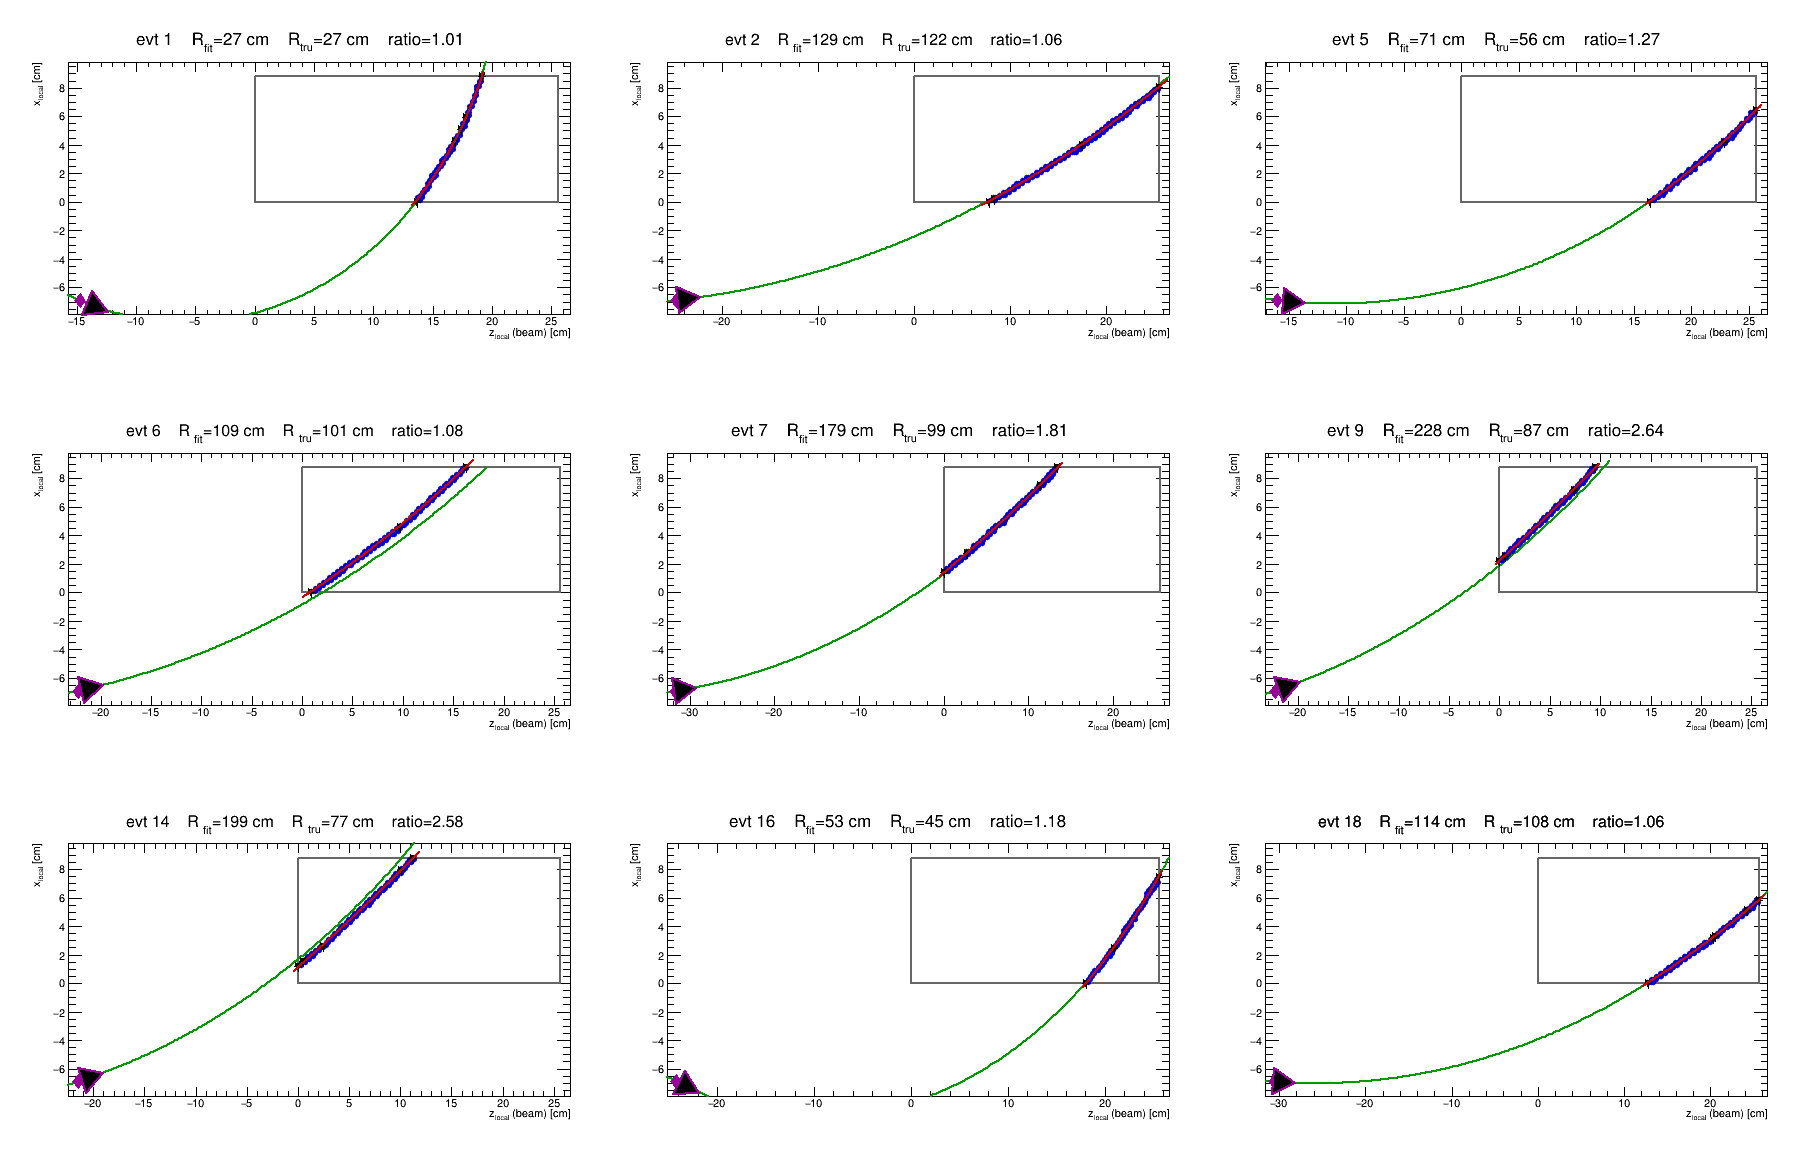
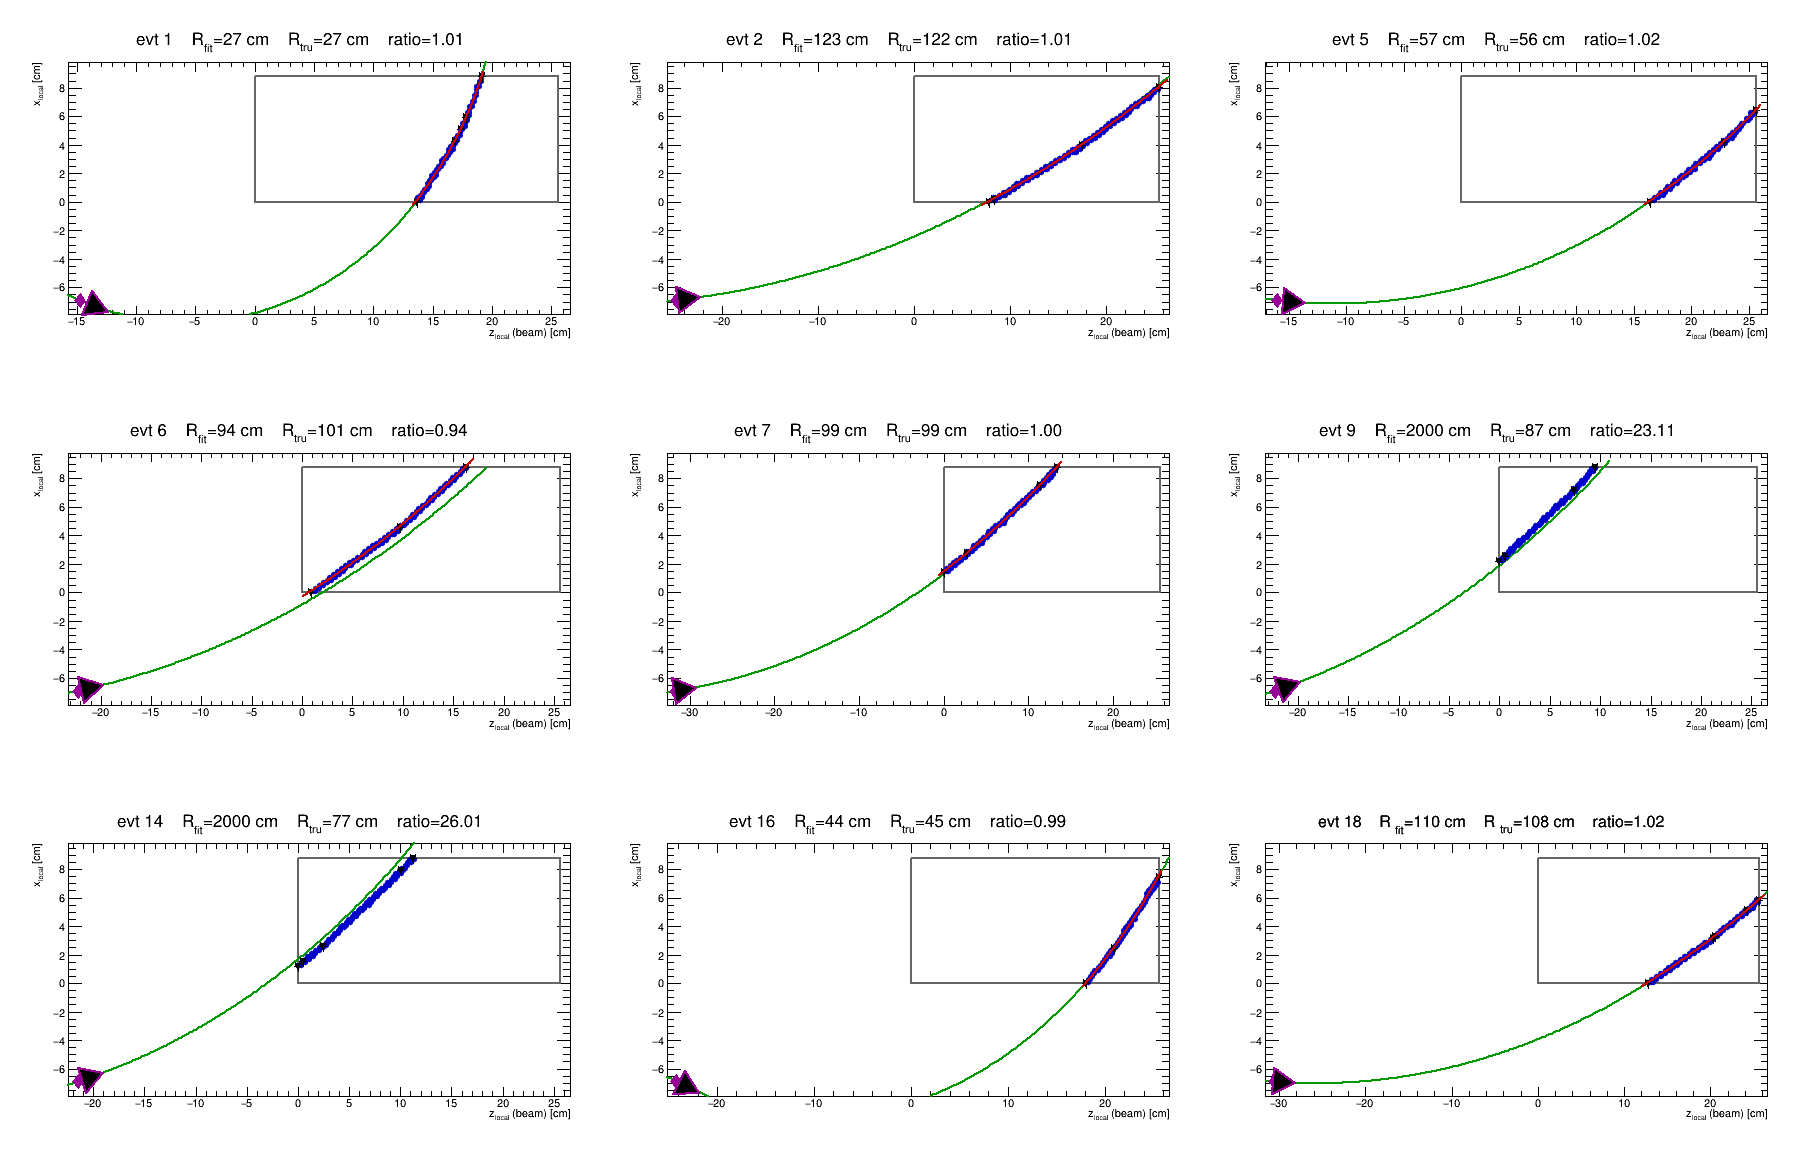
fix(reco): cap Pratt+GN circle radius at 20 m
When the in-pad (x,z) hits + the vertex pseudo-hit happen to be
nearly collinear, the GN refinement has no lower bound on the cost
function and R can slide off to 1e5 cm or worse (the data is
consistent with a straight line, and a straight line is a circle of
infinite radius — neither Pratt nor Huber prevent it). About 1% of
good_evt events hit this and shipped unphysical radii downstream
(visible in evtdisp as a flat fitted curve while the truth circle
clearly bends).

Clamp R at 20 m inside the GN iteration: the chamber is 26 cm long,
so anything beyond ~5 m curvature is indistinguishable from a
straight line at hit precision; the UKF then gets a sane p_seed and
can move it during the smoothing pass.

The Gaussian core σ_p/p is unchanged (those events live in the
tail), but the visual outliers in evtdisp are gone — fit curves now
visibly hug the in-pad hits like the truth curve.

Also point evtdisp_z*.C at the 2k vertex-constrained tracking output
(was reading the 500-event baseline file from before the vertex
constraint was wired in, which is why those displays looked stale).

diff --git a/macros/tracking/ukf_resolution_2026-05-17/macros/evtdisp_z_multi.C b/macros/tracking/ukf_resolution_2026-05-17/macros/evtdisp_z_multi.C
@@ -7,9 +7,9 @@ void evtdisp_z_multi()
     gStyle->SetPadTickY(1);
 
     TString wd = gSystem->Getenv("VMCWORKDIR");
-    TFile fReco(wd + "/glad-tpc/macros/reco/output_reco_goodevt.root");
-    TFile fTrk("output_tracking_goodevt.root");
-    TFile fSim(wd + "/glad-tpc/macros/sim/Prototype/sim_goodevt.root");
+    TFile fReco(wd + "/glad-tpc/macros/reco/output_reco_goodevt2k.root");
+    TFile fTrk("output_tracking_goodevt2k.root");
+    TFile fSim(wd + "/glad-tpc/macros/sim/Prototype/sim_goodevt2k.root");
     auto* tR = (TTree*)fReco.Get("evt");
     auto* tT = (TTree*)fTrk.Get("evt");
     auto* tS = (TTree*)fSim.Get("evt");

diff --git a/macros/tracking/ukf_resolution_2026-05-17/macros/evtdisp_z_he3.C b/macros/tracking/ukf_resolution_2026-05-17/macros/evtdisp_z_he3.C
@@ -7,9 +7,9 @@ void evtdisp_z_he3()
     gStyle->SetPadTickY(1);
 
     TString wd = gSystem->Getenv("VMCWORKDIR");
-    TFile fReco(wd + "/glad-tpc/macros/reco/output_reco_goodevt.root");
-    TFile fTrk("output_tracking_goodevt.root");
-    TFile fSim(wd + "/glad-tpc/macros/sim/Prototype/sim_goodevt.root");
+    TFile fReco(wd + "/glad-tpc/macros/reco/output_reco_goodevt2k.root");
+    TFile fTrk("output_tracking_goodevt2k.root");
+    TFile fSim(wd + "/glad-tpc/macros/sim/Prototype/sim_goodevt2k.root");
     auto* tR = (TTree*)fReco.Get("evt");
     auto* tT = (TTree*)fTrk.Get("evt");
     auto* tS = (TTree*)fSim.Get("evt");

diff --git a/macros/tracking/ukf_resolution_2026-05-17/macros/evtdisp_z.C b/macros/tracking/ukf_resolution_2026-05-17/macros/evtdisp_z.C
@@ -7,9 +7,9 @@ void evtdisp_z()
     gStyle->SetPadTickY(1);
 
     TString wd = gSystem->Getenv("VMCWORKDIR");
-    TFile fReco(wd + "/glad-tpc/macros/reco/output_reco_goodevt.root");
-    TFile fTrk("output_tracking_goodevt.root");
-    TFile fSim(wd + "/glad-tpc/macros/sim/Prototype/sim_goodevt.root");
+    TFile fReco(wd + "/glad-tpc/macros/reco/output_reco_goodevt2k.root");
+    TFile fTrk("output_tracking_goodevt2k.root");
+    TFile fSim(wd + "/glad-tpc/macros/sim/Prototype/sim_goodevt2k.root");
     auto* tR = (TTree*)fReco.Get("evt");
     auto* tT = (TTree*)fTrk.Get("evt");
     auto* tS = (TTree*)fSim.Get("evt");
